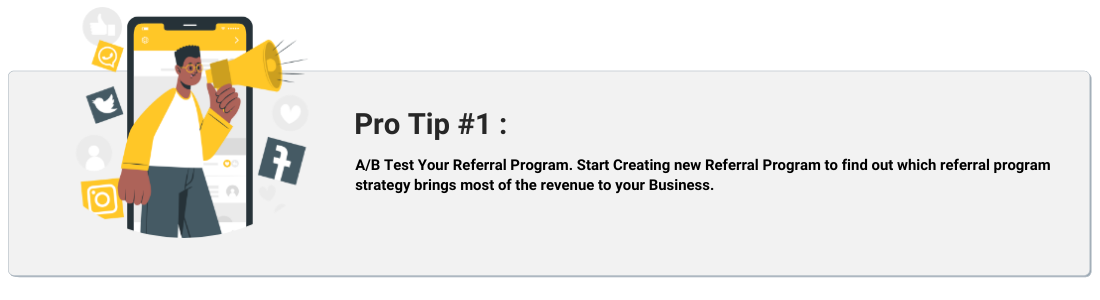
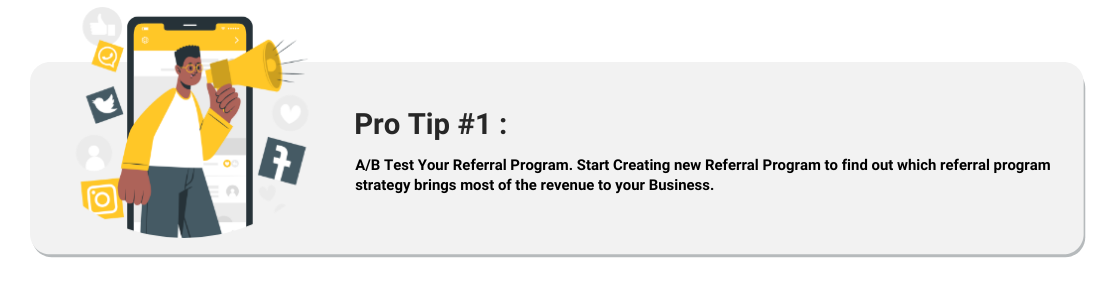
fixed the border radius, box-shadow, crousal indicator color told by pallavi mam

Changed region(s): [[0.0, 0.24, 1.0, 0.93], [0.0, 0.21, 0.0309, 0.24]]

diff --git a/index.html b/index.html
@@ -49,7 +49,7 @@
             </div>
         </div>
     </nav>
-    <div class="container-sm my-5">
+    <div class="container-sm mt-4">
         <div class="row d-flex justify-content-end">
             <div class="card1" style="height:50px;
             width:270px;">
@@ -75,16 +75,16 @@
  
       <div class="container">
         <div id="carouselExampleLight" class="carousel carousel-warning slide" data-bs-ride="carousel">
-            <div class="carousel-indicators">
-              <button style="width:1vh;
-              height:1vh;
-              border-radius:100%; background-color: rgb(255, 255, 66);" type="button" data-bs-target="#carouselExampleLight" data-bs-slide-to="0" class="active" aria-current="true" aria-label="Slide 1"></button>
-              <button style="width:1vh;
-              height:1vh;
-              border-radius:100%;background-color: rgb(255, 255, 66);" type="button" data-bs-target="#carouselExampleLight" data-bs-slide-to="1" aria-label="Slide 2"></button>
-              <button style="width:1vh;
-              height:1vh;
-              border-radius:100%;background-color: rgb(255, 255, 66);" type="button" data-bs-target="#carouselExampleLight" data-bs-slide-to="2" aria-label="Slide 3"></button>
+            <div class="carousel-indicators mb-5">
+              <button style="width:1.2vh;
+              height:1.2vh;
+              border-radius:100%;" type="button" data-bs-target="#carouselExampleLight" data-bs-slide-to="0" class="active mx-1" aria-current="true" aria-label="Slide 1"></button>
+              <button style="width:1.2vh;
+              height:1.2vh;
+              border-radius:100%;" type="button" data-bs-target="#carouselExampleLight" data-bs-slide-to="1" class="mx-1" aria-label="Slide 2"></button>
+              <button style="width:1.2vh;
+              height:1.2vh;
+              border-radius:100%;" type="button" data-bs-target="#carouselExampleLight" data-bs-slide-to="2" aria-label="Slide 3"></button>
             </div>
             <div class="carousel-inner">
               <div class="carousel-item active" data-bs-interval="4000">
@@ -155,7 +155,7 @@
                                         opacity: 1;">Referal Rate</h4>
                                         <p style="font: normal normal normal 14px/20px Roboto;
                                         letter-spacing: 0px;
-                                        font-size:1vh;
+                                        font-size:0.9vw;
                                         color: #FFFFFF;
                                         opacity: 1;">In Last 7 days</p>
                                     </div>
@@ -175,7 +175,7 @@
                                             letter-spacing: 0px;
                                             font-weight: bold;
                                              opacity: 1;
-                                             font-size:1.12vh;
+                                             font-size:1.2vh;
                                             color:black;
                                             cursor: pointer;
                                           ">View <i class="fa fa-chevron-right"></i></button>
@@ -199,7 +199,7 @@
                                         opacity: 1;">Revenue Rate</h4>
                                         <p style="font: normal normal normal 14px/20px Roboto;
                                         letter-spacing: 0px;
-                                        font-size:1vh;
+                                        font-size:0.9vw;
                                         color: #FFFFFF;
                                         opacity: 1;">In Last 7 days</p>
                                     </div>
@@ -218,7 +218,7 @@
                                             letter-spacing: 0px;
                                             font-weight: bold;
                                              opacity: 1;
-                                             font-size:1.12vh;
+                                             font-size:1.2vh;
                                             color:black;
                                             cursor: pointer;
                                           ">View <i class="fa fa-chevron-right"></i></button>
@@ -242,7 +242,7 @@
                                         <p style="font: normal normal normal 14px/20px Roboto;
                                         letter-spacing: 0px;
                                         color: #FFFFFF;
-                                        font-size:1vh;
+                                        font-size:0.9vw;
                                         opacity: 1;">In Last 7 days</p>
                                     </div>
                                     <div class="container-sm">
@@ -260,7 +260,7 @@
                                             letter-spacing: 0px;
                                             font-weight: bold;
                                              opacity: 1;
-                                             font-size:1.12vh;
+                                             font-size:1.vh;
                                             color:black;
                                             cursor: pointer;
                                           ">View <i class="fa fa-chevron-right"></i></button>
@@ -309,7 +309,7 @@
                                 </li>
 
                                 <li class="nav-item"><button
-                                        style="background-color:#AEB0E9;margin-right:10px;border: none; border-color:#AEB0E9;box-shadow: 0px 3px 6px #00000029; border-radius:16px;width:200px; height:45px;"
+                                        style="background-color:#AEB0E9;margin-right:10px;border: none; border-color:#AEB0E9;box-shadow: 0px 3px 6px #00000029; border-radius:28px;width:200px; height:45px;"
                                         type="button"
                                         class="btn-sm nav-item d-flex justify-content-start align-items-center"><img
                                             class="img-fluid img-responsive" style="height:19px; margin-left:14px;"

diff --git a/style1.css b/style1.css
@@ -283,3 +283,14 @@ opacity: 1;
         margin:0px;
       
       }
+
+    
+
+      .carousel-indicators button.active{
+        background-color:#FFC727;
+      }
+      
+
+      
+              
+     
